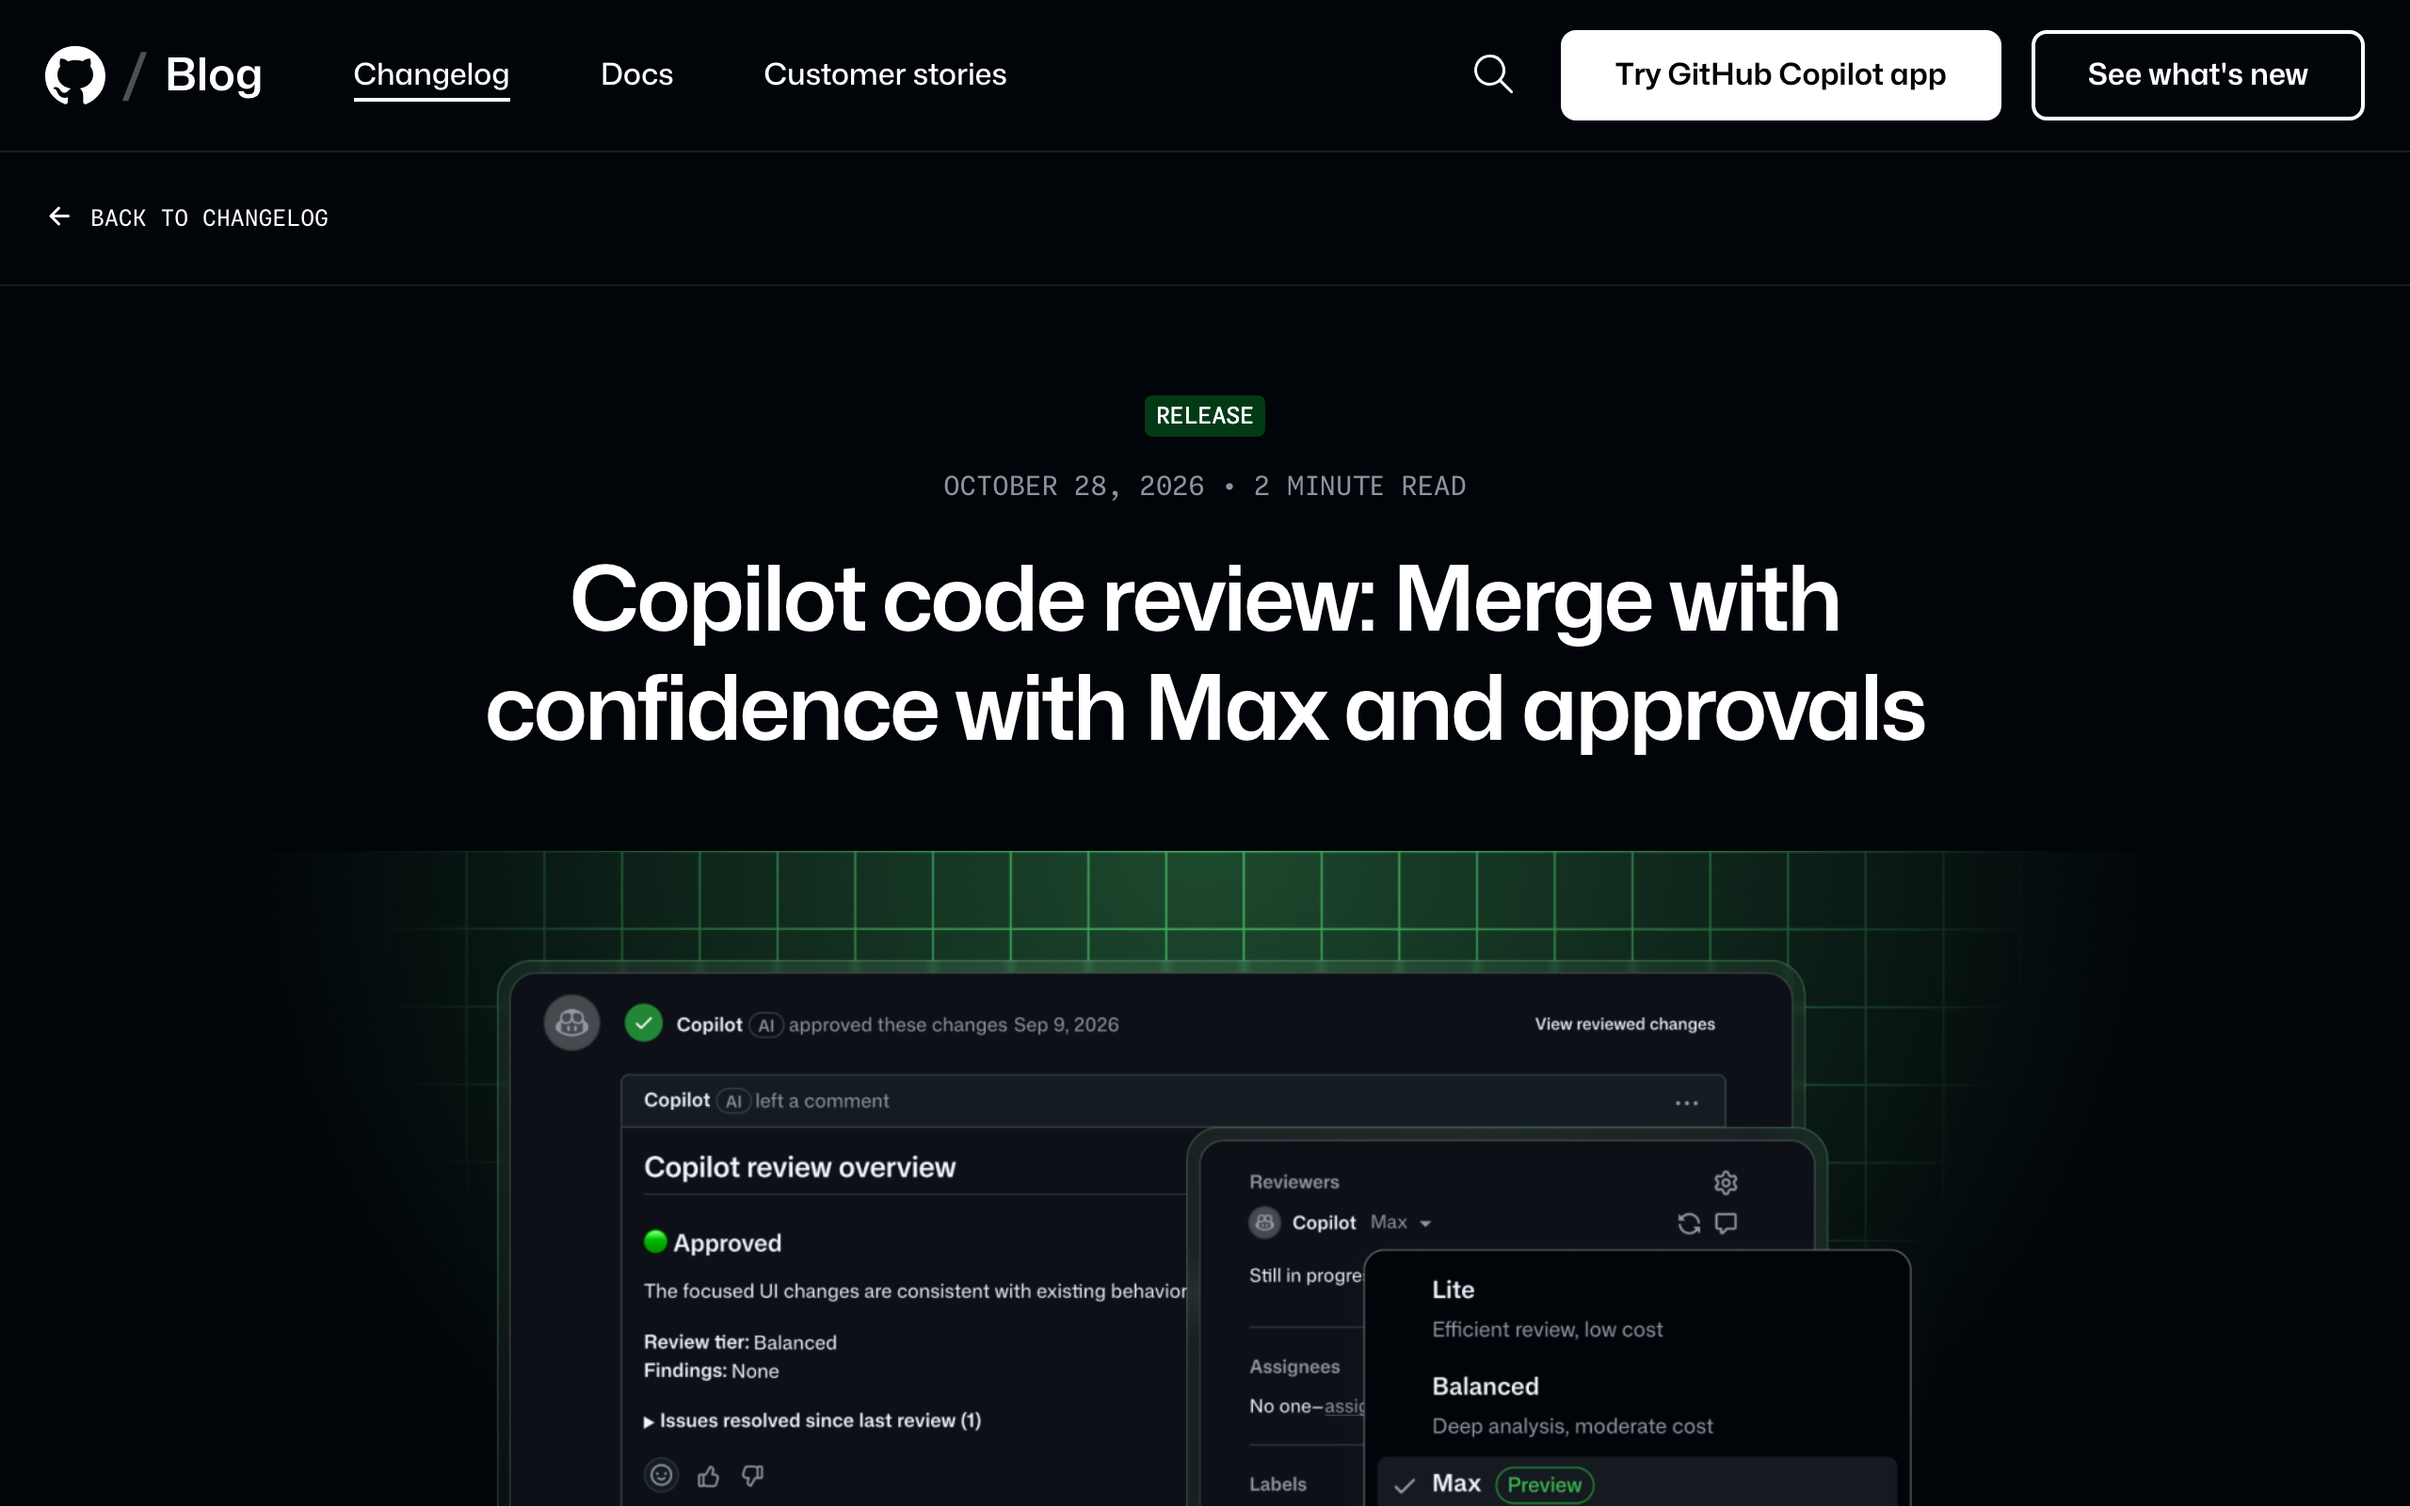
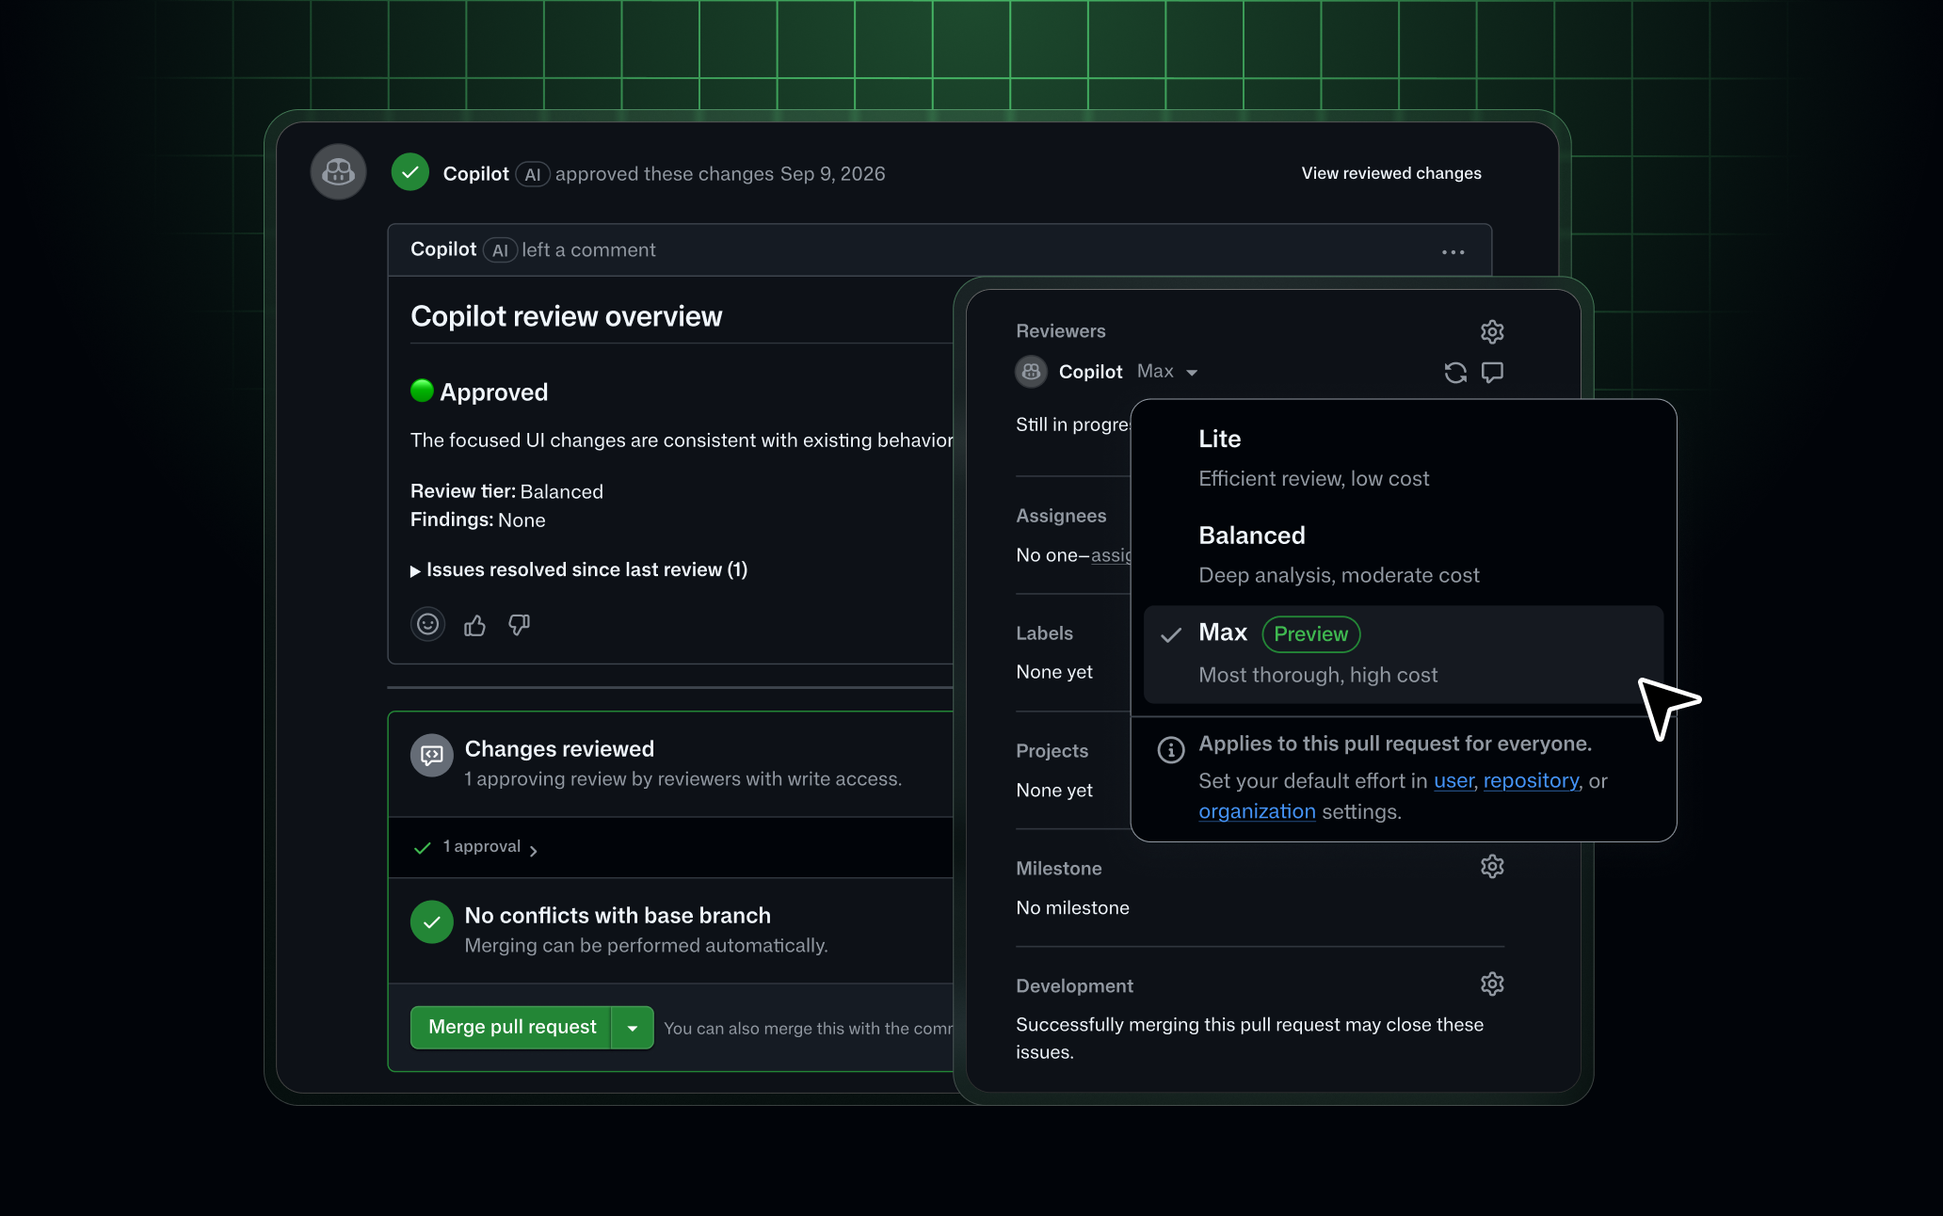
Use official changelog product images instead of blog-page screenshots
Replace Playwright blog captures with the official product imagery from each
changelog post, update alt text/captions/sources, and swap capture.mjs for a
dependency-free fetch-images.mjs.

Changed region(s): [[0.031, 0.0, 0.9612, 1.0], [0.0, 0.031, 0.124, 0.0619]]

diff --git a/index.html b/index.html
@@ -37,12 +37,12 @@
     <li>Hosts Projects and Automations (below)</li>
     <li>Connectors: Vercel, Cloudflare, Sentry and others authenticate once across app, CLI, and web</li>
   </ul>
-  <figure class="shot" data-url="https://github.blog/changelog/2026-10-28-github-copilot-app-universe-releases/">
-    <img src="assets/app.png" alt="GitHub Copilot app changelog entry" loading="lazy">
-    <figcaption>Changelog: GitHub Copilot app, Universe releases. <a href="https://github.blog/changelog/2026-10-28-github-copilot-app-universe-releases/">Source</a></figcaption>
+  <figure class="shot" data-url="https://github.blog/changelog/2026-10-28-work-from-anywhere-with-a-new-connected-copilot-cloud-experience/" data-img="https://github.blog/wp-content/uploads/2026/11/683326413-6c3e6093-4c88-4c7c-9c8d-3e30f57e6bcd.jpg">
+    <img src="assets/app.jpg" alt="The same Copilot session and pull request synced between github.com and GitHub Mobile" loading="lazy">
+    <figcaption>Changelog: Work from anywhere with a new connected Copilot cloud experience. <a href="https://github.blog/changelog/2026-10-28-work-from-anywhere-with-a-new-connected-copilot-cloud-experience/">Source</a></figcaption>
   </figure>
   <p class="notes"><strong>Notes:</strong> If you have a demo, show handing a session from the app to the CLI.</p>
-  <p class="src">Source: <a href="https://github.blog/changelog/2026-10-28-github-copilot-app-universe-releases/">Changelog: GitHub Copilot app, Universe releases</a></p>
+  <p class="src">Source: <a href="https://github.blog/changelog/2026-10-28-github-copilot-app-universe-releases/">Changelog: GitHub Copilot app, Universe releases</a> · <a href="https://github.blog/changelog/2026-10-28-work-from-anywhere-with-a-new-connected-copilot-cloud-experience/">Changelog: Work from anywhere</a></p>
 </section>
 
 <section id="projects" data-time="3 min">
@@ -54,9 +54,9 @@
     <li><strong>Automations:</strong> reusable tasks run on triggers, schedules, or on demand; can propose improvements from outcomes; new tools, triggers, and cost controls</li>
     <li>Good fits: dependency chores, release notes, triage, docs drift</li>
   </ul>
-  <figure class="shot" data-url="https://github.blog/changelog/2026-10-28-github-copilot-app-universe-releases/#:~:text=Projects%20in%20the%20GitHub%20Copilot%20app">
-    <img src="assets/projects.png" alt="Copilot Projects and Automations changelog section" loading="lazy">
-    <figcaption>Changelog: Projects &amp; Automations section. <a href="https://github.blog/changelog/2026-10-28-github-copilot-app-universe-releases/#:~:text=Projects%20in%20the%20GitHub%20Copilot%20app">Source</a></figcaption>
+  <figure class="shot" data-url="https://github.blog/changelog/2026-10-28-github-copilot-app-universe-releases/#give-copilot-a-goal" data-img="https://github.com/user-attachments/assets/37b3573f-d42f-439f-a136-9613293cf984">
+    <img src="assets/projects.jpg" alt="Copilot app showing the new left navigation with a Projects view" loading="lazy">
+    <figcaption>Changelog: GitHub Copilot app, Universe releases — Projects. <a href="https://github.blog/changelog/2026-10-28-github-copilot-app-universe-releases/#give-copilot-a-goal">Source</a></figcaption>
   </figure>
   <p class="notes"><strong>Notes:</strong> *Reports disagree on exact availability stage — confirm on the changelog before saying “GA” or “preview.”</p>
   <p class="src">Source: <a href="https://github.blog/changelog/2026-10-28-github-copilot-app-universe-releases/">Changelog: Copilot app, Universe releases</a></p>
@@ -72,8 +72,8 @@
     <li>GitHub benchmark claims: Fusion Max scores close to a leading single model at roughly half the API cost and ~40% faster per task</li>
     <li>Surfaces: VS Code, Copilot app, Copilot CLI, JetBrains</li>
   </ul>
-  <figure class="shot" data-url="https://github.blog/changelog/2026-10-28-route-and-orchestrate-models-with-github-copilot-fusion/">
-    <img src="assets/fusion.png" alt="Copilot Fusion changelog entry" loading="lazy">
+  <figure class="shot" data-url="https://github.blog/changelog/2026-10-28-route-and-orchestrate-models-with-github-copilot-fusion/" data-img="https://github.blog/wp-content/uploads/2026/11/683297831-90d4b889-b7d4-4473-93fc-e75bb8595652.png">
+    <img src="assets/fusion.png" alt="Copilot prompt composer with the Copilot Fusion menu open and the Max effort level selected" loading="lazy">
     <figcaption>Changelog: Route and orchestrate models with Copilot Fusion. <a href="https://github.blog/changelog/2026-10-28-route-and-orchestrate-models-with-github-copilot-fusion/">Source</a></figcaption>
   </figure>
   <p class="notes"><strong>Notes:</strong> Present the numbers as GitHub's own benchmarks, not independent results. *Confirm GA wording on the changelog.</p>
@@ -90,8 +90,8 @@
     <li>Copilot can now act as reviewer <em>and</em> approver; approvals reset when new commits are pushed; configurable at repo/org/enterprise level</li>
     <li>Related: pull request stacks to break big PRs into smaller linked reviews</li>
   </ul>
-  <figure class="shot" data-url="https://github.blog/changelog/2026-10-28-copilot-code-review-merge-with-confidence-with-max-and-approvals/">
-    <img src="assets/review.png" alt="Copilot code review Max and approvals changelog entry" loading="lazy">
+  <figure class="shot" data-url="https://github.blog/changelog/2026-10-28-copilot-code-review-merge-with-confidence-with-max-and-approvals/" data-img="https://github.blog/wp-content/uploads/2026/11/683060765-43cffe61-3c1c-47b7-9067-57635b1b60e4.png">
+    <img src="assets/review.png" alt="Copilot approving a pull request, with the reviewer menu open showing Lite, Balanced, and Max review levels" loading="lazy">
     <figcaption>Changelog: Copilot code review — Max and approvals. <a href="https://github.blog/changelog/2026-10-28-copilot-code-review-merge-with-confidence-with-max-and-approvals/">Source</a></figcaption>
   </figure>
   <p class="src">Source: <a href="https://github.blog/changelog/2026-10-28-copilot-code-review-merge-with-confidence-with-max-and-approvals/">Changelog: Max and approvals</a> · <a href="https://github.blog/news-insights/company-news/github-universe-2026-evolving-every-layer-of-the-stack/">Blog: Universe 2026 — Evolving every layer of the stack</a></p>
@@ -106,12 +106,12 @@
     <li><strong>AI push protection:</strong> blocks unstructured secrets like passwords at push time — for humans and agents alike</li>
     <li>Expanded enhanced code scanning and monitoring for enterprises and AI-generated code</li>
   </ul>
-  <figure class="shot" data-url="https://github.blog/changelog/2026-10-28-code-scanning-for-ai-applications-in-public-preview/">
-    <img src="assets/security.png" alt="Code scanning for AI applications changelog entry" loading="lazy">
-    <figcaption>Changelog: AI Scan / code scanning for AI applications. <a href="https://github.blog/changelog/2026-10-28-code-scanning-for-ai-applications-in-public-preview/">Source</a></figcaption>
+  <figure class="shot" data-url="https://github.blog/changelog/2026-10-28-security-extension-for-the-github-copilot-app/" data-img="https://github.blog/wp-content/uploads/2026/11/679056306-3aa8eb70-0db8-486a-8009-572eccef3284.jpg">
+    <img src="assets/security.jpg" alt="The Security extension in the Copilot app next to a session, with options to start a security review and view code scanning findings" loading="lazy">
+    <figcaption>Changelog: Security extension for the GitHub Copilot app. <a href="https://github.blog/changelog/2026-10-28-security-extension-for-the-github-copilot-app/">Source</a></figcaption>
   </figure>
   <p class="notes"><strong>Notes:</strong> AI Scan reported as rolling out for Enterprise — say “starting to roll out” unless you've verified.</p>
-  <p class="src">Source: <a href="https://github.blog/news-insights/company-news/github-universe-2026-evolving-every-layer-of-the-stack/">Blog: Evolving every layer of the stack</a></p>
+  <p class="src">Source: <a href="https://github.blog/news-insights/company-news/github-universe-2026-evolving-every-layer-of-the-stack/">Blog: Evolving every layer of the stack</a> · <a href="https://github.blog/changelog/2026-10-28-security-extension-for-the-github-copilot-app/">Changelog: Security extension</a></p>
 </section>
 
 <section id="creative" data-time="2 min">
@@ -122,10 +122,11 @@
     <li>Image generation and editing from chat</li>
     <li>Desktop automation with explicit user approval</li>
   </ul>
-  <figure class="shot" data-url="https://github.blog/news-insights/company-news/github-universe-2026-evolving-every-layer-of-the-stack/">
-    <img src="assets/creative.png" alt="Universe 2026 blog post" loading="lazy">
-    <figcaption>Blog: Universe 2026 — Evolving every layer of the stack. <a href="https://github.blog/news-insights/company-news/github-universe-2026-evolving-every-layer-of-the-stack/">Source</a></figcaption>
+  <figure class="shot" data-url="https://github.blog/changelog/2026-10-28-generate-and-edit-images-directly-in-copilot/" data-img="https://github.blog/wp-content/uploads/2026/10/Changelog_Header_NewRelease_GenerateImagesCopilotApp.jpg">
+    <img src="assets/creative.jpg" alt="Copilot app generating an image of Mona wearing a yellow hardhat from a chat prompt" loading="lazy">
+    <figcaption>Changelog: Generate and edit images directly in Copilot. <a href="https://github.blog/changelog/2026-10-28-generate-and-edit-images-directly-in-copilot/">Source</a></figcaption>
   </figure>
+  <p class="src">Source: <a href="https://github.blog/changelog/2026-10-28-generate-and-edit-images-directly-in-copilot/">Changelog: Generate and edit images</a> · <a href="https://github.blog/changelog/2026-10-28-github-copilot-app-universe-releases/#let-copilot-work-with-your-desktop-apps">Changelog: Desktop apps</a></p>
 </section>
 
 <section id="platform" data-time="2 min">
@@ -148,9 +149,9 @@
     <li>Shift toward AI usage-based billing (AI credits), per-user budgets, and a Max tier with more included credits</li>
     <li>Plan for cost controls and budgets early</li>
   </ul>
-  <figure class="shot" data-url="https://github.blog/changelog/2026-06-01-updates-to-github-copilot-billing-and-plans/">
-    <img src="assets/enterprise.png" alt="Copilot billing and plans changelog entry" loading="lazy">
-    <figcaption>Changelog: Updates to Copilot billing and plans. <a href="https://github.blog/changelog/2026-06-01-updates-to-github-copilot-billing-and-plans/">Source</a></figcaption>
+  <figure class="shot" data-url="https://github.blog/changelog/2026-10-13-search-and-filter-for-budgets-now-available/" data-img="https://github.blog/wp-content/uploads/2026/10/670134061-d348271e-500e-462e-bc2a-425313b7a32a.png">
+    <img src="assets/enterprise.png" alt="Budgets and alerts page listing per-user and enterprise AI credit budgets with spend and a scope filter" loading="lazy">
+    <figcaption>Changelog: Search and filter for budgets now available. <a href="https://github.blog/changelog/2026-10-13-search-and-filter-for-budgets-now-available/">Source</a></figcaption>
   </figure>
   <p class="notes"><strong>Notes:</strong> <em>Highest risk of inaccuracy.</em> Verify exact terms and effective dates against official pricing/changelog before presenting.</p>
 </section>
@@ -175,7 +176,11 @@
     <li><a href="https://github.blog/changelog/2026-10-28-route-and-orchestrate-models-with-github-copilot-fusion/">Changelog — Copilot Fusion</a></li>
     <li><a href="https://github.blog/changelog/2026-10-28-copilot-code-review-merge-with-confidence-with-max-and-approvals/">Changelog — Copilot code review: Max and approvals</a></li>
     <li><a href="https://github.blog/changelog/2026-10-28-code-scanning-for-ai-applications-in-public-preview/">Changelog — Code scanning for AI applications (public preview)</a></li>
+    <li><a href="https://github.blog/changelog/2026-10-28-work-from-anywhere-with-a-new-connected-copilot-cloud-experience/">Changelog — Work from anywhere with a new connected Copilot cloud experience</a></li>
+    <li><a href="https://github.blog/changelog/2026-10-28-security-extension-for-the-github-copilot-app/">Changelog — Security extension for the GitHub Copilot app</a></li>
+    <li><a href="https://github.blog/changelog/2026-10-28-generate-and-edit-images-directly-in-copilot/">Changelog — Generate and edit images directly in Copilot</a></li>
     <li><a href="https://github.blog/changelog/2026-06-01-updates-to-github-copilot-billing-and-plans/">Changelog — Updates to Copilot billing and plans</a></li>
+    <li><a href="https://github.blog/changelog/2026-10-13-search-and-filter-for-budgets-now-available/">Changelog — Search and filter for budgets</a></li>
     <li><a href="https://github.blog/changelog/2026-10-28-github-copilot-in-jetbrains-universe-releases/">Changelog — Copilot in JetBrains, Universe releases</a></li>
     <li><a href="https://github.com/events/universe/recap">GitHub Universe recap</a></li>
   </ul>

diff --git a/README.md b/README.md
@@ -2,15 +2,14 @@
 
 Static GitHub Pages talk track. Open `index.html` locally or via Pages.
 
-## Screenshots
+## Images
 
-Each section has a `<figure class="shot">` pointing at `assets/<name>.png`; until the image exists a dashed placeholder is shown. Capture them from a machine that can reach github.blog:
+Each section has a `<figure class="shot">` showing official product imagery from the GitHub changelog post linked in its caption. `data-img` holds the original image URL and `<img src>` the local copy in `assets/`; until the file exists a dashed placeholder is shown. To re-download them:
 
 ```
-npm i playwright && npx playwright install chromium
-node scripts/capture.mjs
+node scripts/fetch-images.mjs
 ```
 
-Crop/replace any image manually (same filename) if a tighter shot reads better on stage.
+Swap any image manually (update `src` if the file type changes) if a different shot reads better on stage.
 
 Items marked `*` need fact-checking against the official changelog/blog before presenting.
